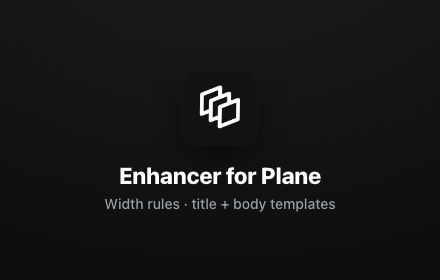
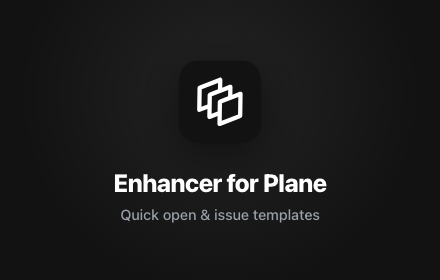
Rebuild the small promo tile from a source, with current copy
The 440×280 tile was the one published asset with no source, and it still read "Width
rules · title + body templates" — the positioning from two renames ago, with width rules
in front and quick open not mentioned at all. It now says "Quick open & issue templates":
the two features the name leads with, in that order, joined the way the name joins them.

It has an HTML source like everything else, so every published asset in store-assets can
now be regenerated from the repo and none is hand-composited. Two details worth keeping:
it pulls ../icons/icon.svg directly rather than a copy of the path, so the tile and the
icon beside it in the store cannot drift apart; and it stays dark where the captures are
light, since #121212 is half the brand and a dark tile is what separates this from a grid
of pale ones.

Korean gets its own tile now too — the subtitle is copy, and copy is translated.

The listing note claiming this tile could never be regenerated is gone, since as of this
commit that is no longer true.

Changed region(s): [[0.2364, 0.6, 0.7682, 0.8], [0.4432, 0.2571, 0.5614, 0.4571]]

diff --git a/store-assets/promo-small-440x280.html b/store-assets/promo-small-440x280.html
@@ -1,0 +1,73 @@
+<!doctype html>
+<meta charset="utf-8" />
+<title>Store promo — small tile 440x280</title>
+<link rel="stylesheet" href="shot.css" />
+<style>
+  /* 440x280 is the tile shown in store grids and search results, at whatever size the
+     page decides — so it carries the mark, the name, and the two features the name leads
+     with, and nothing that would turn to mush when it is scaled down.
+     Dark, unlike the captures: #121212 is half the brand, the white mark reads best on it,
+     and a dark tile is what separates this from a grid of light ones. */
+  html, body { width: 440px; height: 280px; }
+  body {
+    background: #121212;
+    display: flex;
+    flex-direction: column;
+    align-items: center;
+    justify-content: center;
+    gap: 0;
+  }
+  /* A soft off-centre glow so the flat black has some depth at tile size. */
+  body::before {
+    content: "";
+    position: absolute;
+    left: 50%;
+    top: 34%;
+    width: 460px;
+    height: 460px;
+    transform: translate(-50%, -50%);
+    background: radial-gradient(circle, rgba(255, 255, 255, 0.075) 0%, rgba(255, 255, 255, 0) 62%);
+    pointer-events: none;
+  }
+  /* The shipped icon itself, not a copy of its path — it cannot drift from the icon the
+     store shows beside this tile. */
+  .mark-lg {
+    width: 88px;
+    height: 88px;
+    position: relative;
+    filter: drop-shadow(0 10px 22px rgba(0, 0, 0, 0.55));
+  }
+  .name {
+    position: relative;
+    margin-top: 22px;
+    font-size: 25px;
+    font-weight: 800;
+    letter-spacing: -0.025em;
+    color: #fff;
+  }
+  .feat {
+    position: relative;
+    margin-top: 9px;
+    font-size: 14.5px;
+    font-weight: 500;
+    color: #9aa1aa;
+    letter-spacing: -0.005em;
+  }
+  .lang-ko .name { font-size: 24px; }
+  .lang-ko .feat { font-size: 14px; word-break: keep-all; }
+</style>
+
+<img class="mark-lg" src="../icons/icon.svg" alt="" />
+<div class="name">Enhancer for Plane</div>
+<div class="feat" data-t="feat"></div>
+
+<script>
+  // The two features the name leads with, in the same order and joined the same way —
+  // "Quick Open & Issue Templates". The old tile said "Width rules · title + body
+  // templates", which was the positioning two renames ago.
+  window.T = {
+    en: { feat: "Quick open &amp; issue templates" },
+    ko: { feat: "바로 열기 &amp; 이슈 템플릿" }
+  };
+</script>
+<script src="shot.js"></script>

diff --git a/store-assets/STORE_LISTING.md b/store-assets/STORE_LISTING.md
@@ -253,6 +253,7 @@ JSON 파일 하나(사내 서버·Git 호스트·아무 URL)를 가리키면 팀
   everyday actions, then the two that shape the page. The name, the description and
   the carousel run in the same order — keep all three in step when one moves.)
 • Small promo tile 440×280 ...... store-assets/promo-small-440x280.png ✓
+  (Korean: promo-small-440x280.ko.png)
 • Marquee 1400×560 .............. store-assets/promo-marquee-1400x560.png ✓
   (Optional for a listing, but the Featured badge is a review of listing quality among
   other things, so it is worth having. Korean: promo-marquee-1400x560.ko.png)
@@ -273,9 +274,12 @@ land in one language and not the other:
 
 The promo tiles work the same way, except each carries its size in its filename
 (`promo-<name>-<W>x<H>.html`) and is rendered at exactly that — `shot.css` fixes the
-capture canvas at 1280×800, so a tile overrides it. The small 440×280 tile predates this
-and has no HTML source, so it is the one asset that cannot be regenerated; give it one if
-it ever needs changing.
+capture canvas at 1280×800, so a tile overrides it. Both tiles have a source, so every
+published asset here can be regenerated from the repo — nothing is hand-composited. The
+tiles are dark where the captures are light: `#121212` is half the brand, the white mark
+reads best on it, and a dark tile is what separates this listing from a grid of pale ones.
+They pull `../icons/icon.svg` directly rather than a copy of its path, so a tile and the
+icon beside it in the store cannot drift apart.
 
 What is translated and what is quoted differ. Headlines, ledes and captions are ours to
 write in each language. The strings inside a mocked menu are not: "＋ 템플릿 관리",
